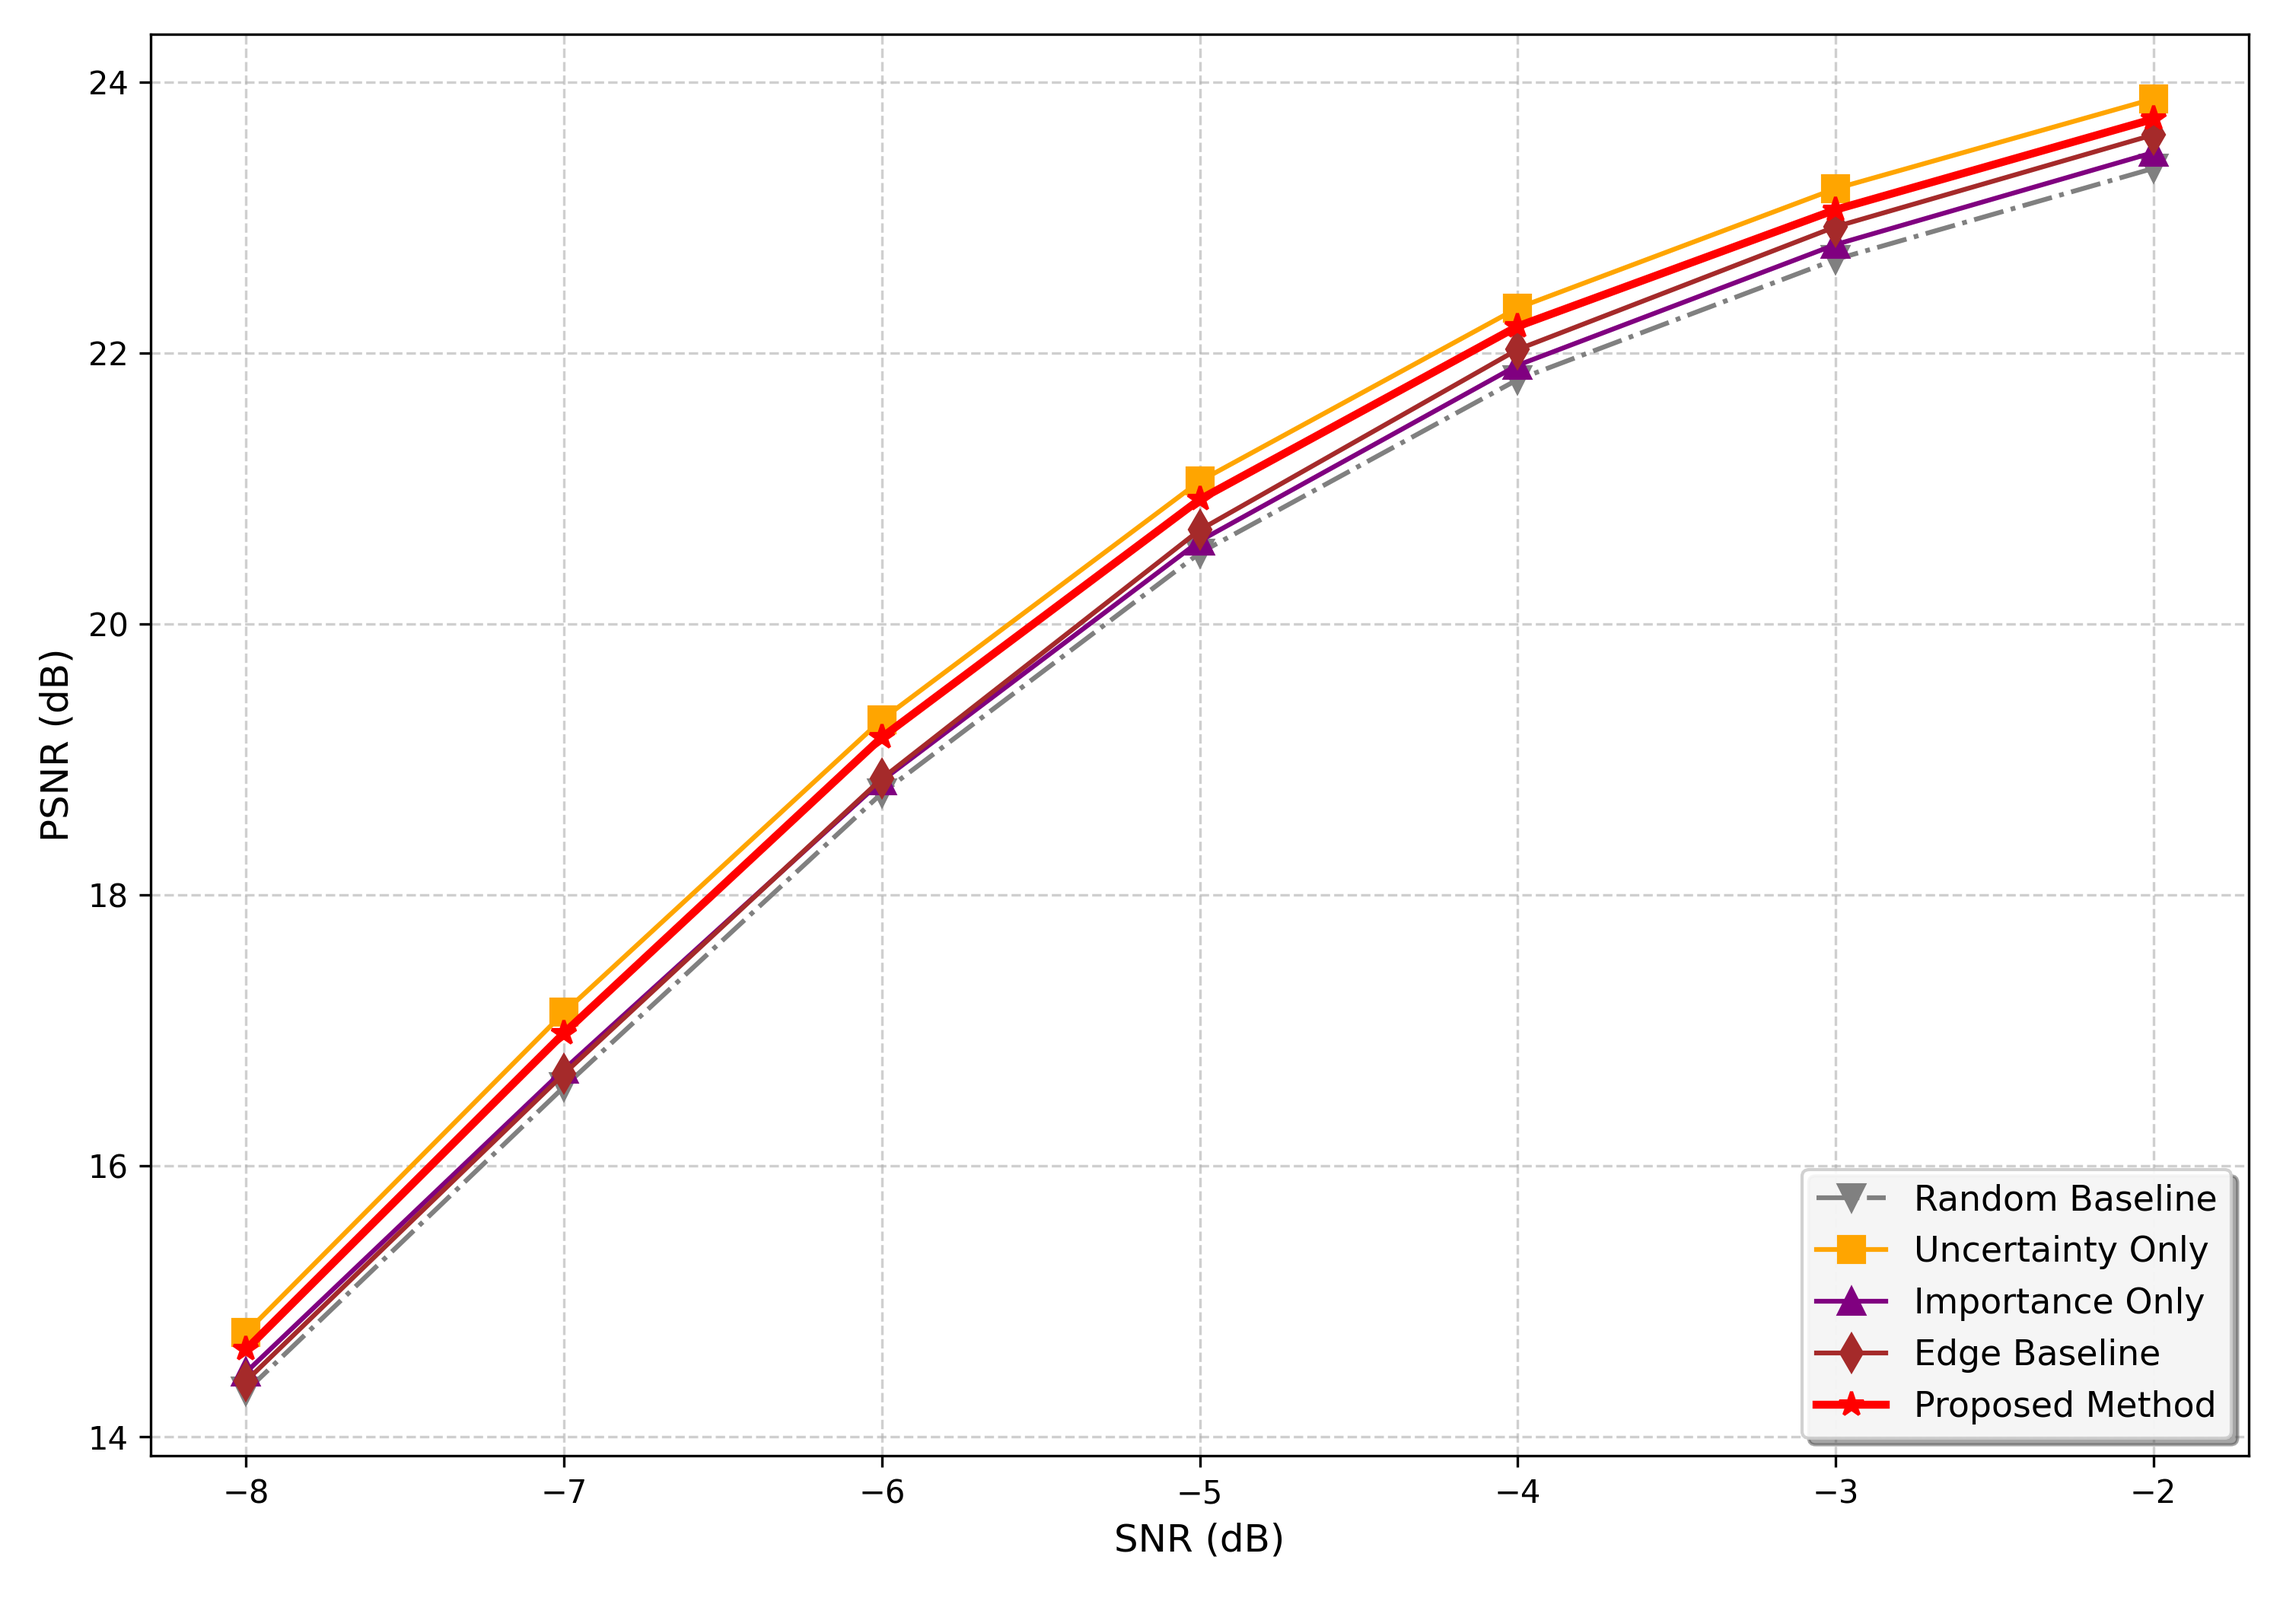
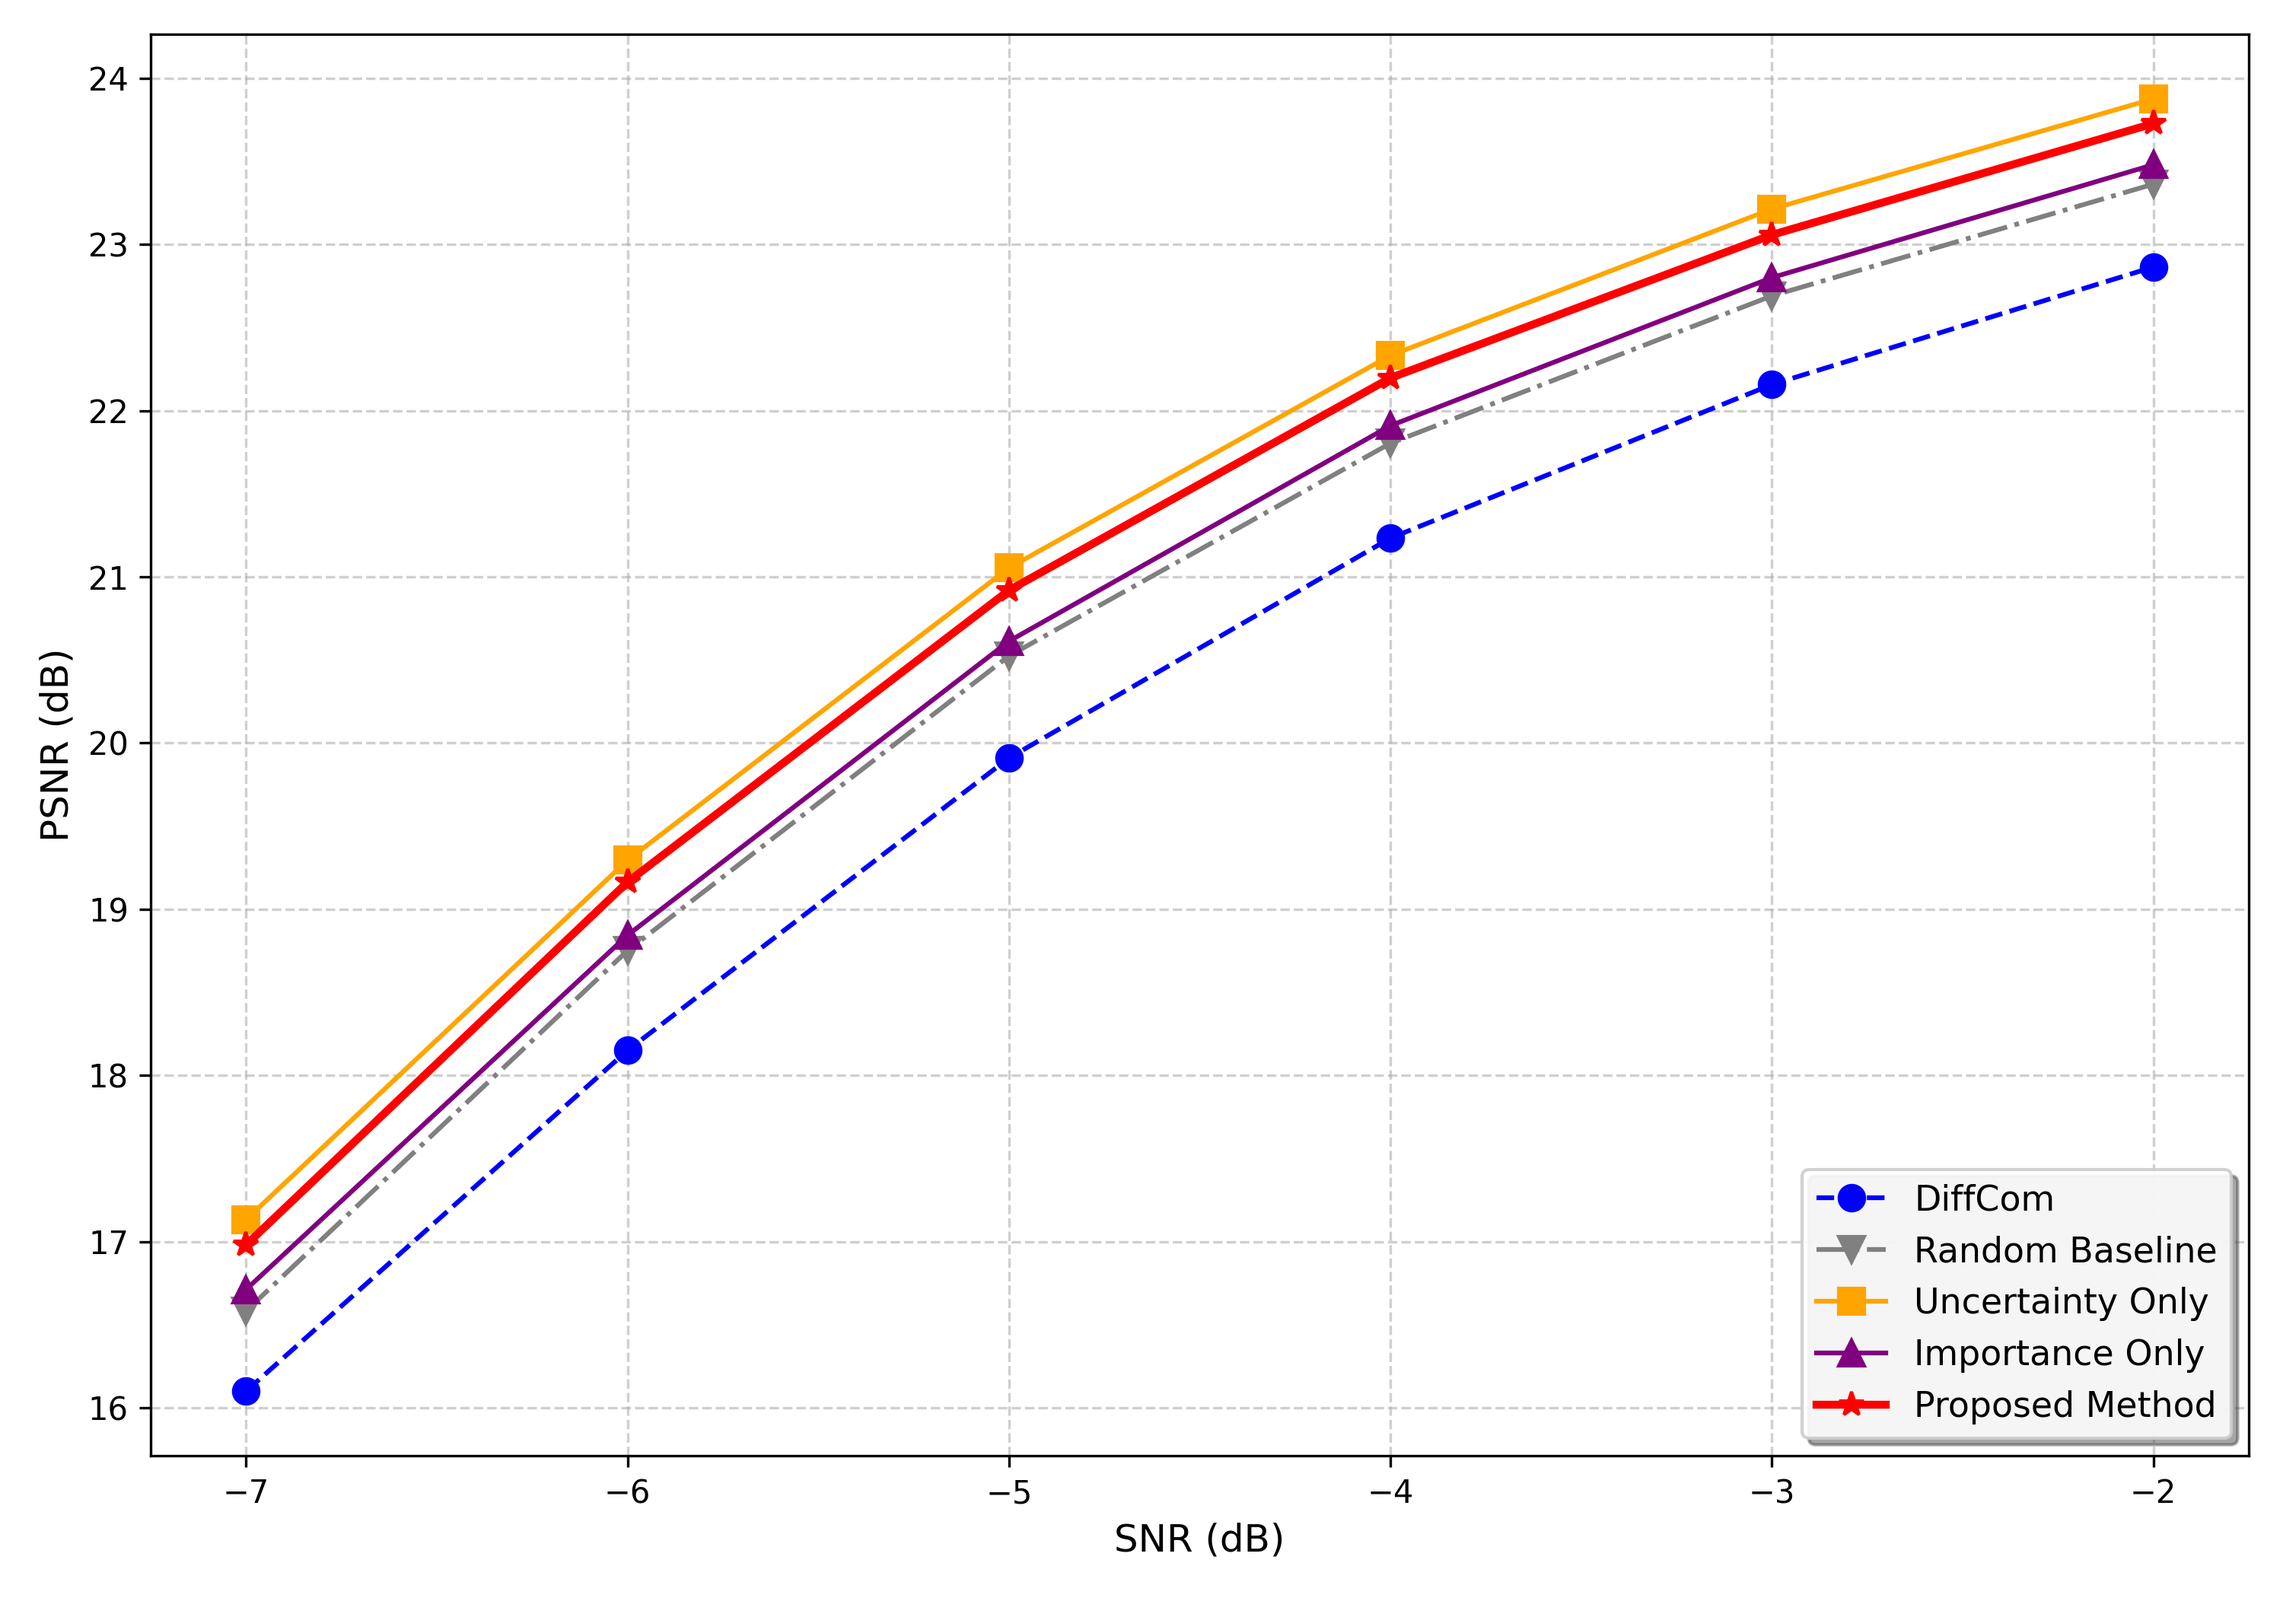
Uncertainty + Random

diff --git a/main_diffcom_retransmission.py b/main_diffcom_retransmission.py
@@ -69,14 +69,19 @@ EXPERIMENT_SUITE = [
     #     "mode": "rate", "value": 0.1, "expansion": 2.0, "gamma": 0.3, "basis": "semantic"
     # },
     # 6. Importance + Random (Global Hybrid)
+    # {
+    #     "name": "6_Importance_Random",
+    #     "mode": "hybrid_global", "value": 0.1, "expansion": 1.0, "gamma": 0.5, "basis": "semantic"
+    # },
+    # # 7. Edge + Random (Global Hybrid)
+    # {
+    #     "name": "7_Edge_Random",
+    #     "mode": "hybrid_global", "value": 0.1, "expansion": 1.0, "gamma": 0.5, "basis": "edge"
+    # },
+    # 8. Uncertainty + Random (Global Hybrid) [ADDED]
     {
-        "name": "6_Importance_Random",
-        "mode": "hybrid_global", "value": 0.1, "expansion": 1.0, "gamma": 0.5, "basis": "semantic"
-    },
-    # 7. Edge + Random (Global Hybrid)
-    {
-        "name": "7_Edge_Random",
-        "mode": "hybrid_global", "value": 0.1, "expansion": 1.0, "gamma": 0.5, "basis": "edge"
+        "name": "8_Uncertainty_Random",
+        "mode": "hybrid_global", "value": 0.1, "expansion": 1.0, "gamma": 0.3, "basis": "uncertainty"
     }
 ]
 
@@ -552,6 +557,13 @@ def simulate_hybrid_global_random(operator, input_image, measurement, mode='hybr
     if basis in ['edge', 'variance']:
         map_spatial = compute_heuristic_importance_map(input_image, method=basis)
         map_spatial = map_spatial.to(device)
+    elif basis == 'uncertainty':
+        # [UPDATED] Handling uncertainty basis for hybrid random
+        if vit_importance_map is None:
+             if logger: logger.warning("Uncertainty map is None for hybrid_global uncertainty mode. Using random.")
+             map_spatial = torch.rand(B, 1, input_image.shape[2], input_image.shape[3], device=device)
+        else:
+             map_spatial = vit_importance_map.to(device)
     else:
         # basis='semantic'
         if vit_importance_map is None:
@@ -944,12 +956,19 @@ def p_sample_loop(config, noise_schedule, unet, diffusion, operator, cond_method
 
                 # Simulation Execution
                 if c_mode == 'hybrid_global':
+                    # Determine input map for hybrid_global function based on basis
+                    hybrid_input_map = None
+                    if c_basis == 'uncertainty':
+                        hybrid_input_map = raw_uncertainty_map
+                    elif c_basis in ['semantic', 'both']:
+                        hybrid_input_map = vit_map
+
                     # Call New Function
                     meas_p2, ratio, mask_vis, _, cand_vis = simulate_hybrid_global_random(
                         operator, input_image, measurement_phase1,
                         mode=c_mode,
                         value=c_val,
-                        vit_importance_map=current_vit,
+                        vit_importance_map=hybrid_input_map, # Pass selected map
                         gamma=c_gam,
                         basis=c_basis,
                         logger=logger

diff --git a/Suite/plot_id_loss_suite.py b/Suite/plot_id_loss_suite.py
@@ -13,11 +13,11 @@ import numpy as np
 # v1: "results_retrans_comparison_v1" 内の全データをプロット
 # v2: "results_retrans_comparison_v2" + v1 (Uncertainty & Proposed)
 # v3: "results_retrans_comparison_v3" + v1 (Uncertainty & Proposed)
-VERSION = "v1"
+VERSION = "v2"
 
 # 共通設定
 DATASET = "ffhq_demo"
-SNR_LABELS = [-8, -7, -6, -5, -4, -3, -2] # プロットしたいSNR範囲
+SNR_LABELS = [-7, -6, -5, -4, -3, -2] # プロットしたいSNR範囲
 
 # データのルートディレクトリ定義
 ROOT_V1 = os.path.join("results_retrans_comparison_v1", DATASET)
@@ -38,7 +38,7 @@ TARGET_METRIC_KEY = "id_loss"
 
 # 全ての手法の表示名とスタイル定義 (PSNR/LPIPSと統一)
 STYLE_CONFIG = {
-    "1_JSCC_Init":         {"label": "Deep JSCC",    "color": "black",  "linestyle": ":",  "marker": "x"},
+    #"1_JSCC_Init":         {"label": "Deep JSCC",    "color": "black",  "linestyle": ":",  "marker": "x"},
     "2_Phase1_Recon":      {"label": "DiffCom",     "color": "blue",   "linestyle": "--", "marker": "o"},
     # Phase 1 & Common
     "1_Random_Baseline":   {"label": "Random Baseline",   "color": "gray",   "linestyle": "-.", "marker": "v"},
@@ -46,7 +46,7 @@ STYLE_CONFIG = {
     # Existing Baselines
     "2_Uncertainty_Only":  {"label": "Uncertainty Only",  "color": "orange", "linestyle": "-",  "marker": "s"},
     "3_Importance_Only":   {"label": "Importance Only",   "color": "purple", "linestyle": "-",  "marker": "^"},
-    "4_Edge_Baseline":     {"label": "Edge Baseline",     "color": "brown",  "linestyle": "-",  "marker": "d"},
+    #"4_Edge_Baseline":     {"label": "Edge Baseline",     "color": "brown",  "linestyle": "-",  "marker": "d"},
     
     # Proposed
     "5_Proposed_Method":   {"label": "Proposed Method",   "color": "red",    "linestyle": "-",  "marker": "*", "linewidth": 2.5},

diff --git a/Suite/plot_psnr_suite.py b/Suite/plot_psnr_suite.py
@@ -13,11 +13,11 @@ import numpy as np
 # v1: "results_retrans_comparison" 内の全データをプロット
 # v2: "results_retrans_comparison_v2" + v1 (Uncertainty & Proposed)
 # v3: "results_retrans_comparison_v3" + v1 (Uncertainty & Proposed)
-VERSION = "v1"
+VERSION = "v2"
 
 # 共通設定
 DATASET = "ffhq_demo"
-SNR_LABELS = [-8, -7, -6, -5, -4, -3, -2] # プロットしたいSNR範囲
+SNR_LABELS = [-7, -6, -5, -4, -3, -2] # プロットしたいSNR範囲
 
 # データのルートディレクトリ定義
 ROOT_V1 = os.path.join("results_retrans_comparison_v1", DATASET)
@@ -37,14 +37,14 @@ PATTERN_V3 = r"Retrans_rate_0\.1_Comparison_semantic_exp2\.0_gam0\.9_zeta0\.3_se
 # 全ての手法の表示名とスタイル定義
 STYLE_CONFIG = {
     # Phase 1 & Common
-    "1_JSCC_Init":         {"label": "Deep JSCC",    "color": "black",  "linestyle": ":",  "marker": "x"},
+    # "1_JSCC_Init":         {"label": "Deep JSCC",    "color": "black",  "linestyle": ":",  "marker": "x"},
     "2_Phase1_Recon":      {"label": "DiffCom",     "color": "blue",   "linestyle": "--", "marker": "o"},
     "1_Random_Baseline":   {"label": "Random Baseline",   "color": "gray",   "linestyle": "-.", "marker": "v"},
     
     # Existing Baselines
     "2_Uncertainty_Only":  {"label": "Uncertainty Only",  "color": "orange", "linestyle": "-",  "marker": "s"},
     "3_Importance_Only":   {"label": "Importance Only",   "color": "purple", "linestyle": "-",  "marker": "^"},
-    "4_Edge_Baseline":     {"label": "Edge Baseline",     "color": "brown",  "linestyle": "-",  "marker": "d"},
+    #"4_Edge_Baseline":     {"label": "Edge Baseline",     "color": "brown",  "linestyle": "-",  "marker": "d"},
     
     # Proposed
     "5_Proposed_Method":   {"label": "Proposed Method",   "color": "red",    "linestyle": "-",  "marker": "*", "linewidth": 2.5},

diff --git a/Suite/calc_id_loss_suite.py b/Suite/calc_id_loss_suite.py
@@ -155,11 +155,11 @@ if __name__ == "__main__":
     # ==========================================
     
     # ★ バージョン選択 ('v1', 'v2', 'v3') ★
-    VERSION = "v3"
+    VERSION = "v2"
     
     # 共通設定
     DATASET = "ffhq_demo"   
-    SNR_LABELS = ["-8", "-7", "-6", "-5", "-4", "-3", "-2"]
+    SNR_LABELS = ["-8","-7", "-6", "-5", "-4", "-3", "-2"]
     
     # 固定パラメータ
     METHOD_PATH = "diffcom/djscc_2"
